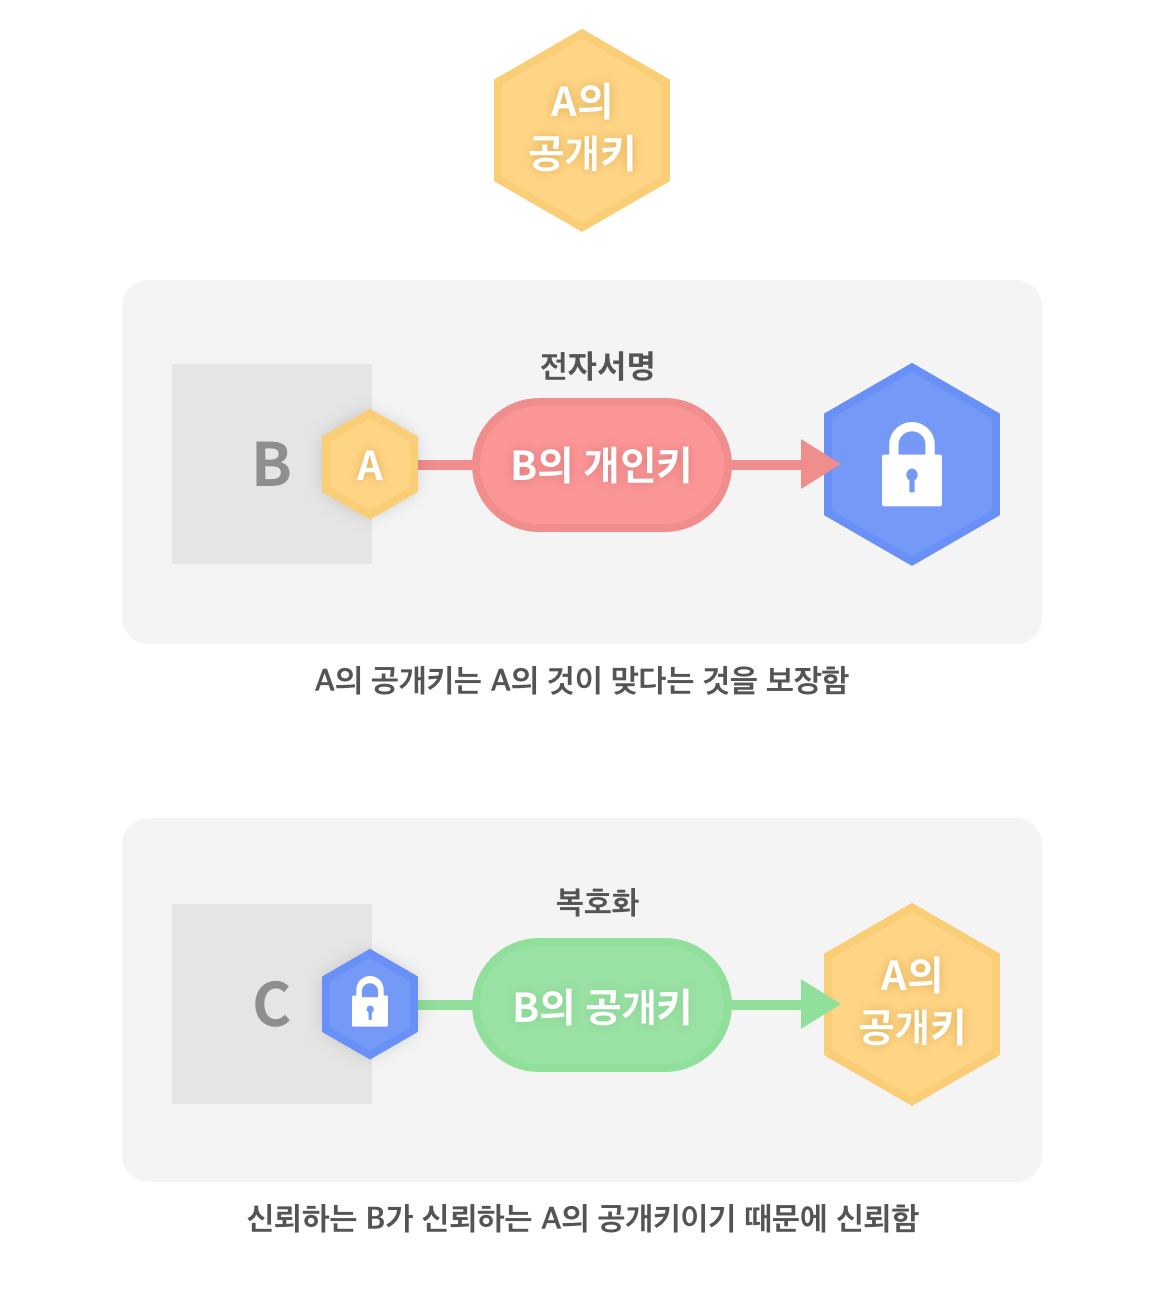
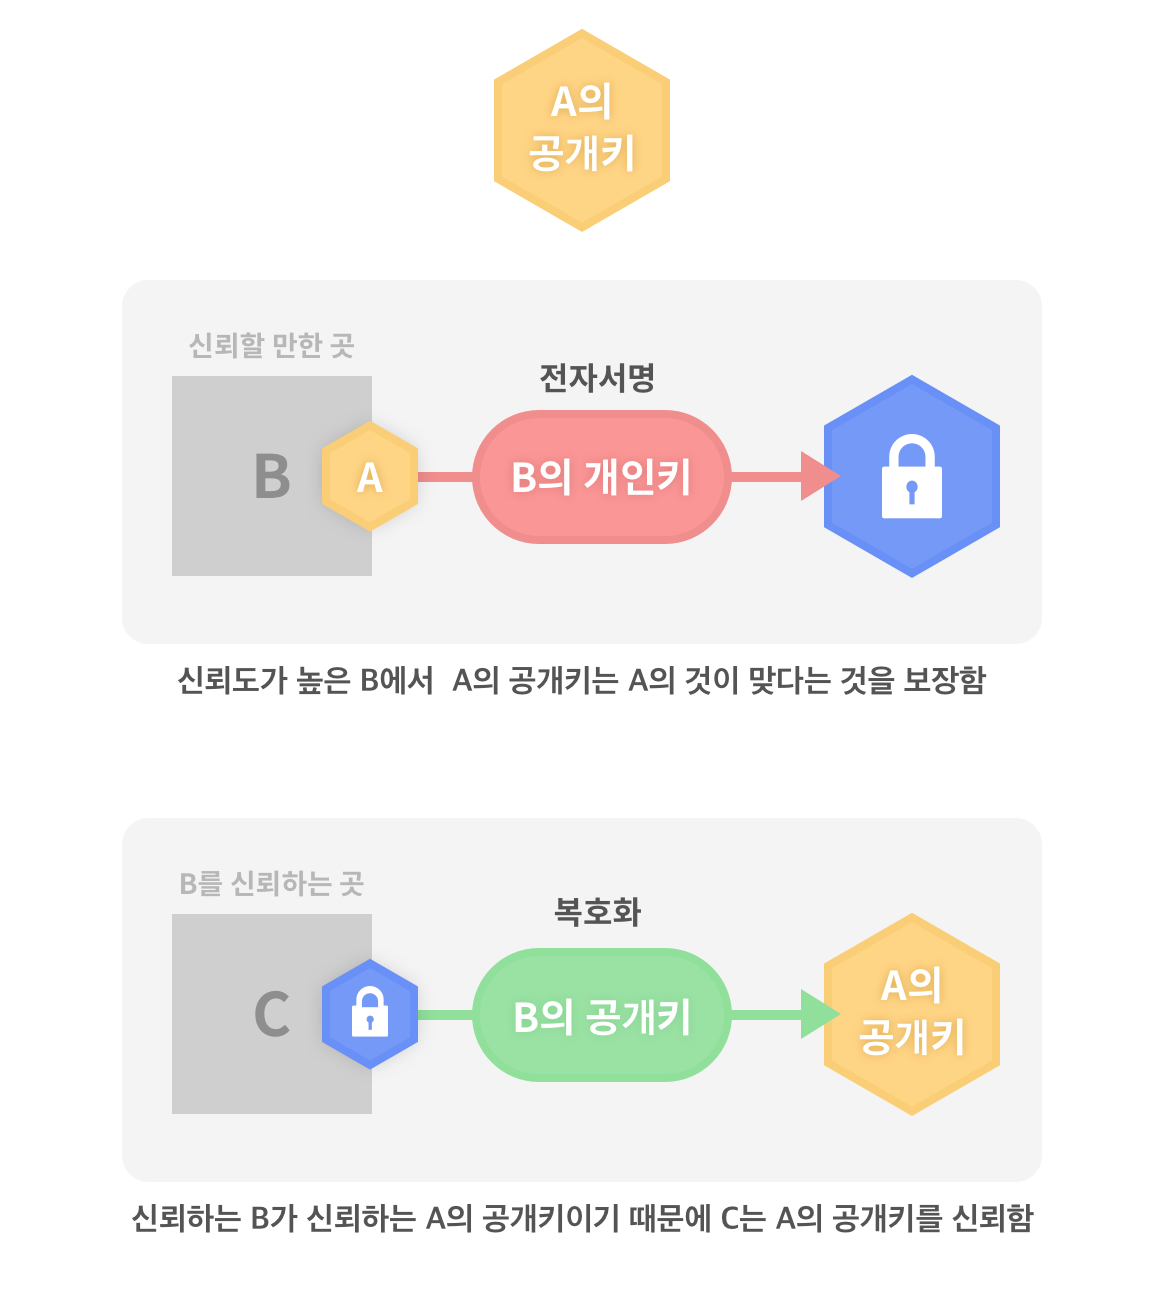
change img, add text of digital-signature

diff --git a/170120/anyoung.noh/README.md b/170120/anyoung.noh/README.md
@@ -31,14 +31,14 @@
 >인터넷에서 컴퓨터들이 서로 정보를 주고 받는데에 쓰이는 통신규약(프로토콜)의 모음이다.    
 >인터넷 프로토콜스위트 중 TCP와 IP가 가장 많이 쓰이기 때문에 TCP/IP 프로토콜 스위트 라고도 한다.
 
----
+
 
 ##HTTPS
 ###Hypertext Transfer Protocol over Secure Socket Layer
 메세지 내용의 보안이 필요한 경우에는 HTTPS를 사용한다. 이것은 HTTP와 유사하지만 통신 내용을 암호화한다는 점이 다르다. 
 
 - 주고받는 모든 메세지를 암호화 알고리즘을 통해 암호화 한다.
-- HTTPS는 통신의 인증과 암호화를 위해 __`SSL(Secure Socket Layer)`__을 기반으로 개발되었고, 전자 상거래에서 널리 쓰인다.  
+- HTTPS는 통신의 인증과 암호화를 위해 __SSL(Secure Socket Layer)__을 기반으로 개발되었고, 전자 상거래에서 널리 쓰인다.  
 - HTTPS를 사용하는 웹페이지의 URL이 __`https://`__로 시작한다.
 
 
@@ -46,14 +46,14 @@
 SSL(Secure Socket Layer) protocol은  Netscape사에서 웹 브라우저와 웹 서버 통신의 보안을 위해서 만들으며 이후 TLS(Transport Layer Security)라는 명칭으로 표준화되었다.  
 
 - 웹 브라우저의 기본기능이므로 여타 플러그인을 사용하지 않아도 된다. 
-- 암호화 방식은 `대칭키`기법과 `공개키`기법의 장점을 적용한다.    
+- 암호화 방식은 **대칭키**기법과 **공개키**기법의 장점을 적용한다.    
 
 -
 
 ####대칭키
 <img src="img/symmetric-key.png" width="650">
 
-- `대칭키`를 서버와 클라이언트가 같이 사용한다.
+- **대칭키**를 송신자와 수신자가 같이 사용한다.
 - 단일 키 사용 
 - 암호화와 복호화에 같은 키를 사용하기 때문에 키를 알게되면 모두 해독이 가능하다.
 
@@ -62,9 +62,9 @@ SSL(Secure Socket Layer) protocol은  Netscape사에서 웹 브라우저와 웹 
 ####비대칭키
 <img src="img/public-key.png" width="650">
 
-- 데이터 송신자는 `수신자의 공개키`로 암호화를 하고, 수신자는 `자신의 개인키`로 복호화한다.
+- 데이터 송신자는 **수신자의 공개키**로 암호화를 하고, 수신자는 **자신의 개인키**로 복호화한다.
 - 쌍으로 이루어진 두 키를 사용 (공개키 : 개인키)
-- 공개키 기법은 시간이 오래 걸리기 때문에 SSL에서는 `대칭키를 보내는 용도`로만 사용한다. 
+- 공개키 기법은 시간이 오래 걸리기 때문에 SSL에서는 대칭키를 보내는 용도로만 사용한다. 
 
 -
 
@@ -72,7 +72,7 @@ SSL(Secure Socket Layer) protocol은  Netscape사에서 웹 브라우저와 웹 
 <img src="img/ssl.png" width="650">
 
 - 공개키 기법으로 대칭키를 주고 받은 후 해당 대칭키로 암호화된 데이터를 주고받는다.
-- 공개키 기법으로 대칭키를 주고 받기 때문에 대칭키는 안전하게 보호되고, 실제 암복호화는 대칭키로 하기 때문에 비용이 적게 든다는 장점이 있다.
+- 공개키 기법으로 대칭키를 주고 받기 때문에 대칭키는 안전하게 보호되고, 실제 암복호화는 대칭키로 하기 때문에 비용이 적게 든다.
 - 대칭키는 임시 대칭키로 매번 랜덤으로 선택되기 때문에 유출되어도 다시 사용할 일이 없어 안전하다. 
 
 ---
@@ -82,6 +82,7 @@ SSL(Secure Socket Layer) protocol은  Netscape사에서 웹 브라우저와 웹 
 ##공인인증서의 개념과 작동 원리
 
 ###전자서명 원리 
+전자서명이라는 것은 간단히 말해 누군가의 공개키가 그의 것이 맞다는 것을 보장하는 것이다.
 
 <img src="img/digital_signature.png" width="550">
 
